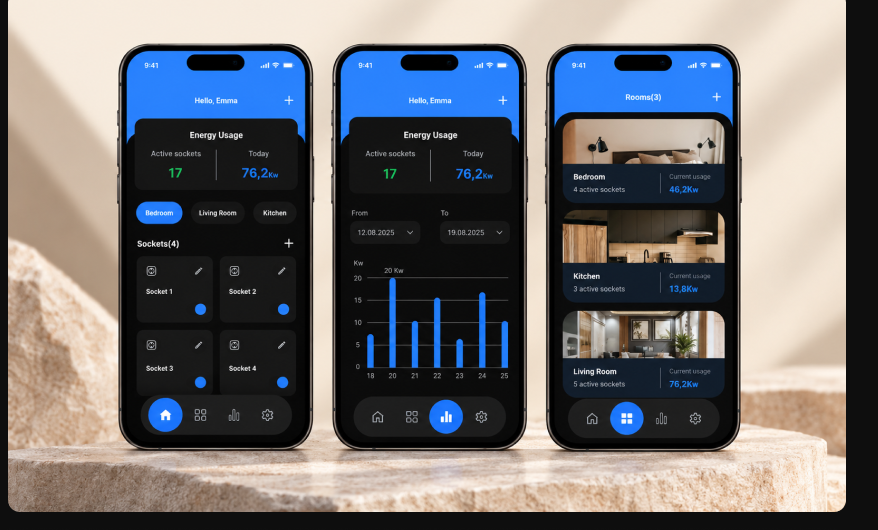
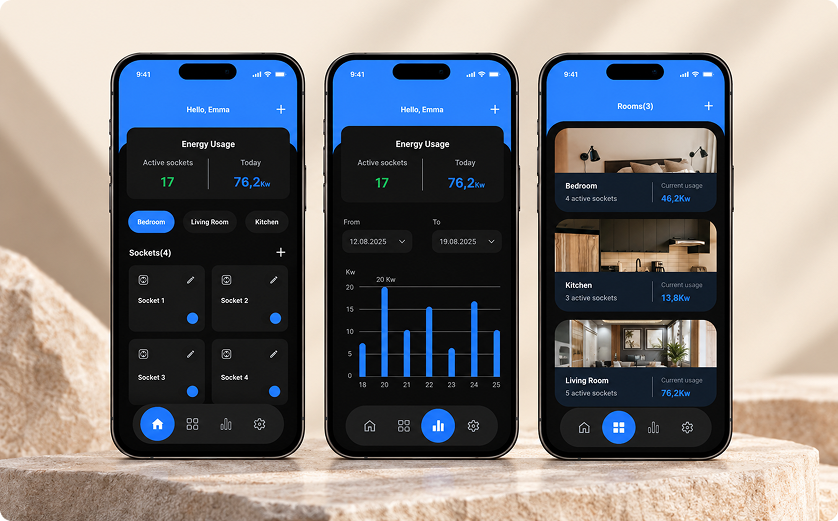
VoltPass: swap in clean full-bleed design frames
Replace the cropped VoltPass design screens with the clean exported
frames (Splash & Onboarding, Smart Home Dashboard & Energy Monitoring,
Room-Based Socket Control & Scheduling, Socket & Room Setup) and update
their dimensions so each covers its whole area.

diff --git a/src/lib/case-studies.ts b/src/lib/case-studies.ts
@@ -291,8 +291,8 @@ export const caseStudies: Record<string, CaseStudy> = {
         n: "01",
         title: "Splash & Onboarding",
         image: img("voltpass", "design-01.png"),
-        w: 878,
-        h: 535,
+        w: 838,
+        h: 550,
         desc: "The splash screen introduces VoltPass through a minimal dark interface, with the brand name and lighting symbol at the centre. The onboarding screens introduce the idea of smarter living through a visual of a modern home and the message “Experience the Future of smart living”.",
         bullets: [
           { label: "Splash Screen", text: "Establishes the app's identity and creates a consistent starting point for the user journey." },
@@ -303,8 +303,8 @@ export const caseStudies: Record<string, CaseStudy> = {
         n: "02",
         title: "Smart Home Dashboard & Energy Monitoring",
         image: img("voltpass", "design-02.png"),
-        w: 878,
-        h: 530,
+        w: 838,
+        h: 521,
         desc: "The home screen gives users a centralized view of their smart sockets across different rooms. Users can switch between rooms, check active socket counts, monitor energy usage, and access individual socket controls from one dashboard.",
         bullets: [
           { label: "Home Screen", text: "Socket control across rooms." },
@@ -316,8 +316,8 @@ export const caseStudies: Record<string, CaseStudy> = {
         n: "03",
         title: "Room-Based Socket Control & Scheduling",
         image: img("voltpass", "design-03.png"),
-        w: 1676,
-        h: 1042,
+        w: 838,
+        h: 521,
         desc: "The rooms screen organizes connected sockets by location, such as bedroom, kitchen, and living room. Each room displays its active socket count and energy usage, helping users understand where their electricity is being consumed and manage their devices more conveniently.",
         bullets: [
           { label: "Rooms Overview", text: "Organized by location." },
@@ -329,8 +329,8 @@ export const caseStudies: Record<string, CaseStudy> = {
         n: "04",
         title: "Socket & Room Setup",
         image: img("voltpass", "design-04.png"),
-        w: 1676,
-        h: 1116,
+        w: 838,
+        h: 558,
         desc: "The socket settings screen allows users to assign a name, select a room, and configure a schedule with specific start and stop times. This helps users automate socket operation — such as switching off selected devices when they are not expected to be home — reducing unnecessary power usage.",
         bullets: [
           { label: "Add New", text: "Quick access to add a socket or room." },
